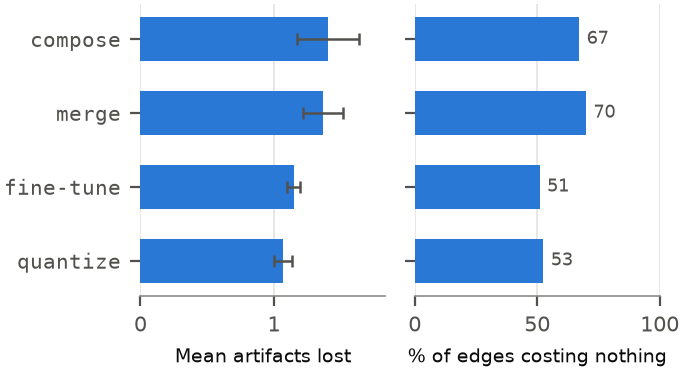
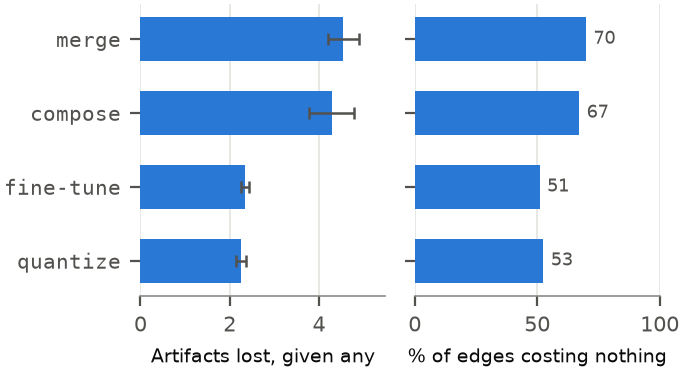
Plot the conditional mean in the criticality figure; drop a dead field
The left panel plotted the unconditional mean while the paper's own text says
an unconditional mean answers neither of the questions the two panels exist to
separate. The distribution is zero-inflated, so the panels now show the mean
CONDITIONAL on the edge costing anything, beside the share of edges that cost
nothing. The ordering between the panels is the finding; plotting the blended
statistic obscured it.

Also removes `mean_near_edge_rate`, an adversarial-row placeholder that was
emitted as null and never filled, while the docstring quoted 0.60 as measured.

diff --git a/make_figures.py b/make_figures.py
@@ -9,9 +9,12 @@ never rests on colour alone -- which matters because these are printed.
 
 Figure 2 is two panels sharing a category axis rather than one chart with two
 scales: "artifacts lost" and "% costing nothing" are different units, and a
-second y-axis would be the single most misread thing in a chart. It uses one
-hue throughout, because the finding is no longer a clean binary and colouring
-it as one would assert a grouping the data does not support.
+second y-axis would be the single most misread thing in a chart. The left panel
+plots the mean CONDITIONAL on nonzero cost, because the distribution is
+zero-inflated and an unconditional mean answers neither of the two questions
+the panels are there to separate. One hue throughout: the finding is not a
+clean binary, and colouring it as one would assert a grouping the data does not
+support.
 """
 import json
 import matplotlib
@@ -84,11 +87,15 @@ def fig_degradation(path="figures/degradation.pdf"):
 
 
 def fig_criticality(path="figures/criticality.pdf"):
+    # Plot the CONDITIONAL mean, not the unconditional one. The distribution
+    # is zero-inflated, so an unconditional mean blends "how often does this
+    # cost anything" with "how much when it does" and answers neither. The two
+    # panels separate exactly those questions.
     rows = sorted(d["edge_criticality"],
-                  key=lambda r: r["mean_models_lost_per_missing_edge"])
+                  key=lambda r: r["conditional_mean_given_nonzero"])
     labels = [r["edge_type"] for r in rows]
-    vals = [r["mean_models_lost_per_missing_edge"] for r in rows]
-    err = [r["ci95_halfwidth"] for r in rows]
+    vals = [r["conditional_mean_given_nonzero"] for r in rows]
+    err = [r["conditional_ci95_halfwidth"] for r in rows]
     free = [100 * r["fraction_costing_nothing"] for r in rows]
 
     fig, axes = plt.subplots(1, 2, figsize=(3.35, 1.9), sharey=True,
@@ -106,7 +113,7 @@ def fig_criticality(path="figures/criticality.pdf"):
                            "capsize": 2.0, "capthick": 0.9})
     axes[0].set_yticks(list(y))
     axes[0].set_yticklabels(labels, fontfamily="monospace")
-    axes[0].set_xlabel("Mean artifacts lost", fontsize=7)
+    axes[0].set_xlabel("Artifacts lost, given any", fontsize=7)
     axes[0].set_xlim(0, max(v + e for v, e in zip(vals, err)) * 1.12)
 
     axes[1].barh(y, free, height=0.6, color=BLUE)

diff --git a/sweep.py b/sweep.py
@@ -334,7 +334,6 @@ def run_adversarial(n_trials=N_TRIALS, drop_p=0.15):
             "mean_actual_untracked_fraction": round(sum(actual) / len(actual), 4),
             "recall_mean": round(m_r, 4), "recall_ci95_halfwidth": round(h_r, 4),
             "total_false_positives": sum(t["false_positives"] for t in trials),
-            "mean_near_edge_rate": None,
         })
         print(f"  {label:<16} dropped={rows[-1]['mean_actual_untracked_fraction']:.3f}  "
               f"recall={m_r:.3f} +/- {h_r:.3f}")
